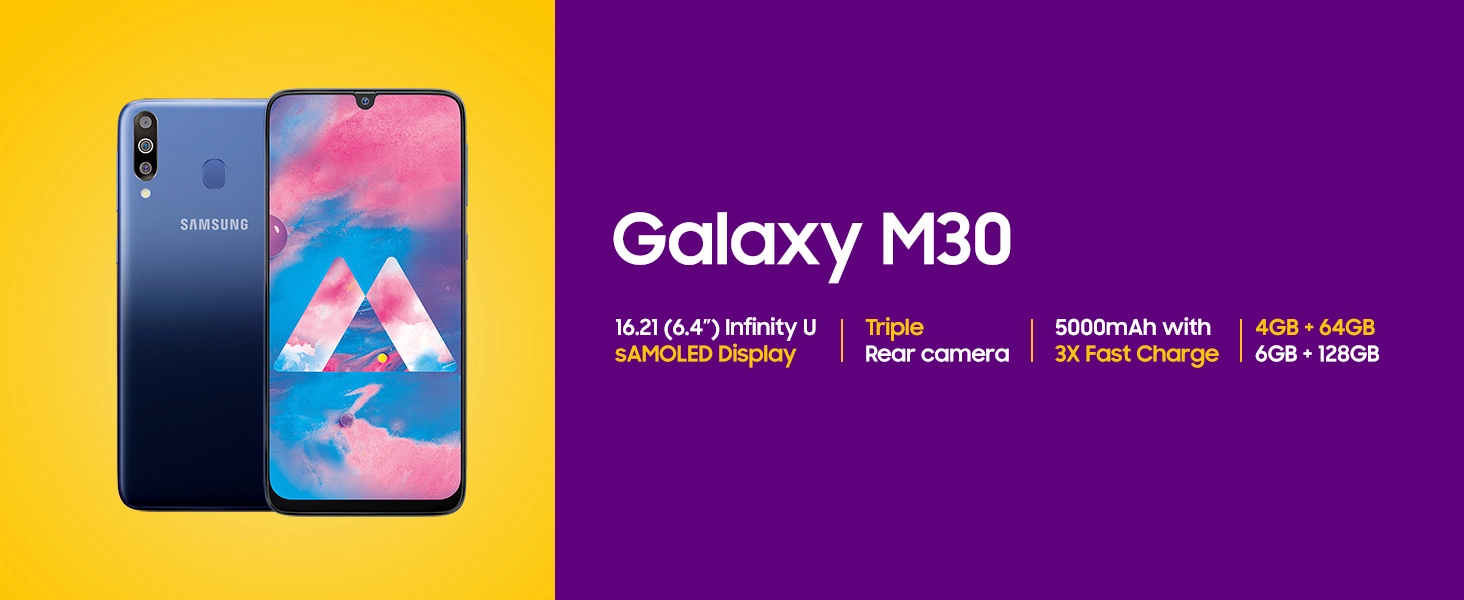
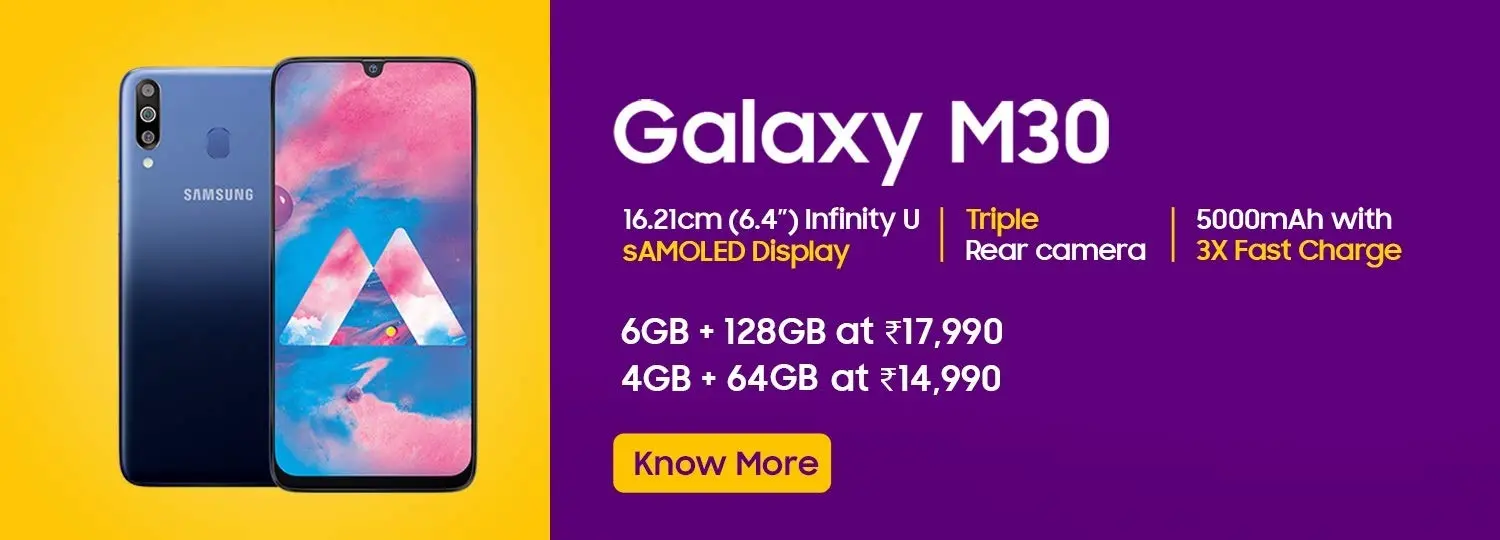
Changed Navbar color, and carousel images

Changed region(s): [[0.0615, 0.0, 0.9529, 1.0]]

diff --git a/src/components/Navigation/NavigationItems/NavigationItem/NavigationItem.module.scss b/src/components/Navigation/NavigationItems/NavigationItem/NavigationItem.module.scss
@@ -20,7 +20,7 @@
   }
 
   &.ShrinkNavItem {
-    font-size: 1.5rem;
+    font-size: 1rem;
 
     &:not(:last-child) {
       margin-right: 4rem;
@@ -30,6 +30,10 @@
 
       svg {
         font-size: 2.5rem;
+      }
+      
+      p {
+        display: none;
       }
     }
   }
@@ -50,13 +54,12 @@
 
     svg {
       margin-right: 1rem;
-      color: var(--primary);
+      color: var(--white);
       font-size: 3.5rem;
       transition: font-size 0.2s ease, color 0.2s ease-in;
       transition: .2s ease;
 
       @include respond($TABLET) {
-        color: var(--white);
         margin-right: 2rem;
         margin-bottom: 2rem;
         transform: translateY(20%);
@@ -64,7 +67,7 @@
     }
 
     p {
-      color: var(--primary);
+      color: var(--white);
       transform-origin: top;
       opacity: 0;
       position: absolute;
@@ -75,7 +78,6 @@
 
       @include respond($TABLET) {
         font-size: 2.5rem;
-        color: var(--white);
         position: static;
         opacity: 1;
         transform: scaleY(1) translate(0, 0);

diff --git a/src/index.scss b/src/index.scss
@@ -4,18 +4,18 @@
 :root {
   --tertiary: #ccc;
   --primary: #000;
-  --secondary: #f7f7f7;
+  --secondary: #fff;
   --text-dark: #333;
   --black: #000;
   --white: #fff;
-  --mint: #02b15a;
+  --main: #2874f0;
   --github: #f1501f;
-  --twitter: #1DA1F2;
+  --twitter: #1da1f2;
 }
 
 [data-theme="dark"] {
   --primary: #f7f7f7;
-  --secondary: #222;
+  --secondary: #141414;
 }
 
 * {
@@ -35,14 +35,11 @@ html {
 
 :focus {
   outline: 2px solid var(--secondary);
-  outline-offset: .5rem;
+  outline-offset: 0.5rem;
 }
 
 body {
   font-family: "Noto Sans JP", sans-serif;
   background-color: var(--secondary);
   color: var(--primary);
-  transition: all 0.3s ease-out;
 }
-
-

diff --git a/src/components/Navigation/SearchBar/SearchBar.module.scss b/src/components/Navigation/SearchBar/SearchBar.module.scss
@@ -12,7 +12,7 @@
   appearance: none;
   color: var(--white);
   border: 1px solid transparent;
-  border-bottom: 1px solid var(--primary);
+  border-bottom: 1px solid var(--white);
   padding: 0.8rem 4rem 0.8rem 1.5rem;
   font-size: 1.8rem;
   transition: all 0.2s ease;
@@ -28,7 +28,7 @@
   }
 
   &::placeholder {
-    color: var(--black);
+    color: var(--white);
     @include respond($TABLET) {
       color: var(--white);
     }

diff --git a/src/components/Navigation/NavbarToggler/NavbarToggler.module.scss b/src/components/Navigation/NavbarToggler/NavbarToggler.module.scss
@@ -3,7 +3,7 @@
 
 .NavbarToggler {
   position: relative;
-  color: var(--primary);
+  color: var(--white);
   cursor: pointer;
   width: 4.4rem;
   height: 3rem;
@@ -38,7 +38,7 @@
     border-radius: 2rem;
     transition: transform 0.2s ease, background-color 0.1s ease-out;
 
-    background-color: var(--primary);
+    background-color: var(--white);
   }
 
   &.Active span {

diff --git a/src/components/Homepage/Carousel/Carousel.module.scss b/src/components/Homepage/Carousel/Carousel.module.scss
@@ -2,7 +2,7 @@
 @import "../../../styles/ResponsiveSheet.scss";
 
 .Slide {
-  height: 400px;
+  height: 420px;
   transition: height 0.2s;
   cursor: pointer;
 
@@ -11,7 +11,7 @@
   }
 
   @include respond($MOBILE) {
-    height: 250px;
+    height: 230px;
   }
 
   & .Banner {

diff --git a/src/components/Homepage/Carousel/Carousel.scss b/src/components/Homepage/Carousel/Carousel.scss
@@ -2,7 +2,11 @@
 @import "../../../styles/ResponsiveSheet.scss";
 
 .carousel.carousel-slider .control-arrow {
-  width: 60px;
+  width: 100px;
+
+  @include respond($TABLET) {
+    width: 60px;
+  }
 
   @include respond($MOBILE) {
     display: none;

diff --git a/src/components/Homepage/Carousel/Carousel.js b/src/components/Homepage/Carousel/Carousel.js
@@ -35,7 +35,6 @@ const CarouselSet = () => {
       showThumbs={false}
       showStatus={false}
       autoPlay={true}
-      transitionTime="300"
       emulateTouch={true}
       useKeyboardArrows={true}
       autoFocus={true}

diff --git a/src/components/Navigation/Navbar/Navbar.module.scss b/src/components/Navigation/Navbar/Navbar.module.scss
@@ -9,7 +9,7 @@
   align-items: center;
   padding: 2rem 5rem;
   margin-bottom: 2rem;
-  background-color: var(--mint);
+  background-color: var(--main);
   position: fixed;
   top: 0;
   left: 0;

diff --git a/src/components/Footer/Footer.module.scss b/src/components/Footer/Footer.module.scss
@@ -53,7 +53,7 @@
 
       .Me {
         text-decoration: none;
-        color: var(--mint);
+        color: var(--main);
         margin: 0 0.5rem;
       }
     }

diff --git a/src/components/UI/Title/Title.module.scss b/src/components/UI/Title/Title.module.scss
@@ -13,6 +13,6 @@
   .Underline {
     width: 40%;
     height: 4px;
-    background-color: var(--mint);
+    background-color: var(--main);
   }
 }
